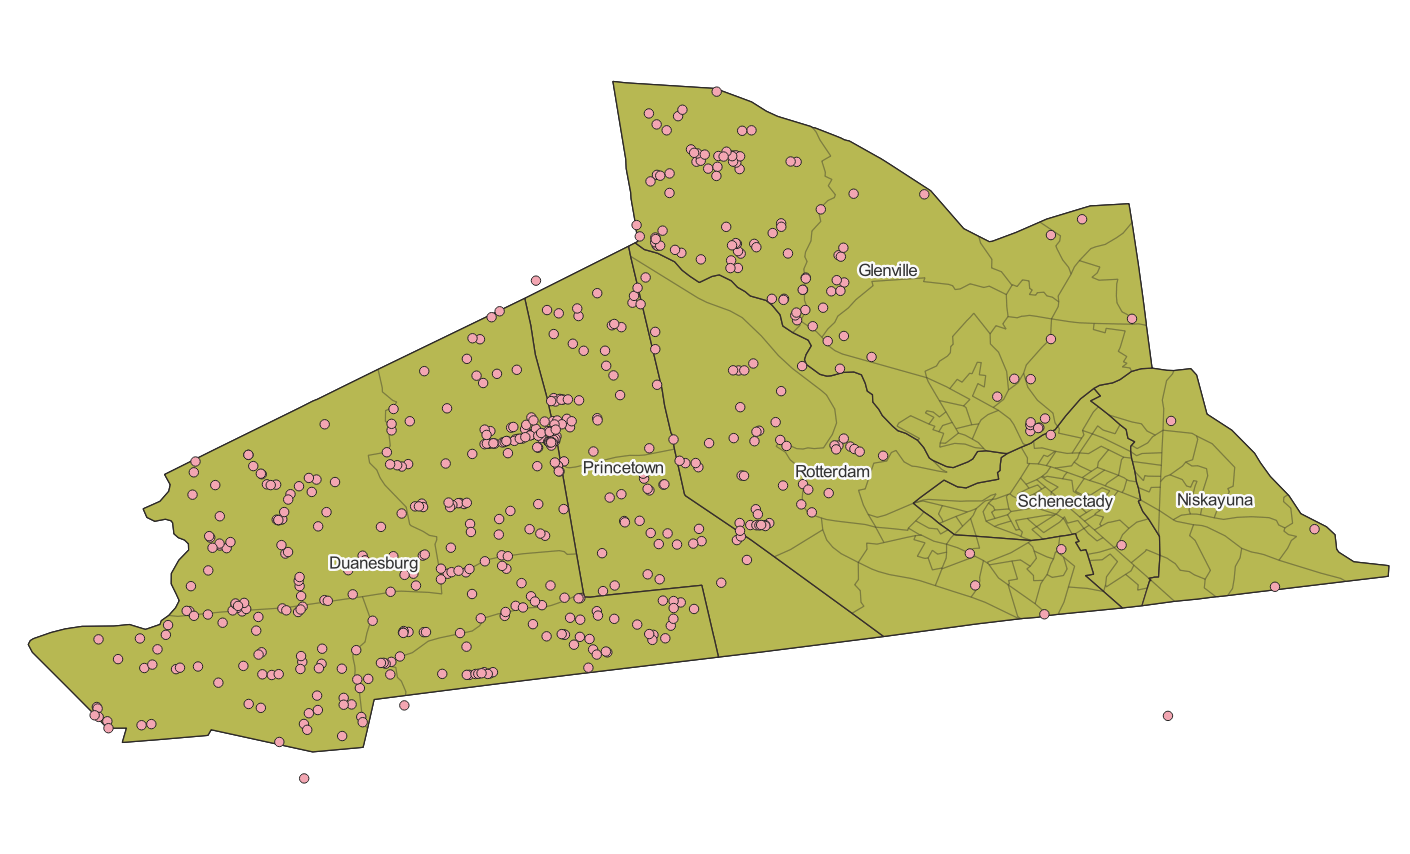
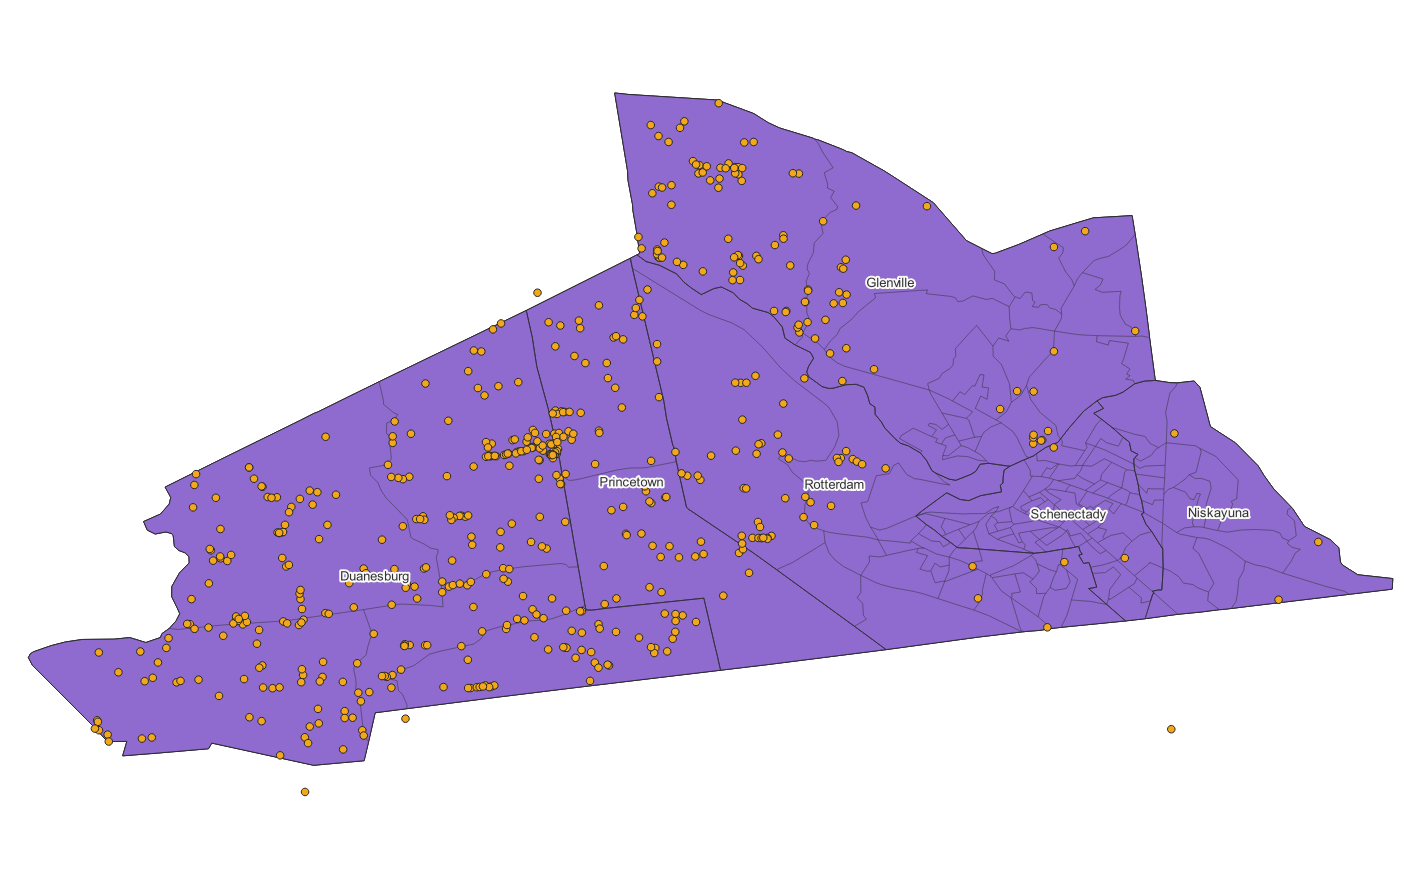
updates

diff --git a/README.md b/README.md
@@ -1,10 +1,8 @@
 # rural-solar-viability
- 
-(3) explain what each script does and the order in which they should be run; 
-(4) explain any additional files provided in the repository; and 
-(5) discuss the results.
 
-## Purpose of repository: Providing analysis of basic information to support decision makers involved in solar farm propagation in rural Upstate NY
+Author: Mary Rachel Keville
+
+## Purpose of repository
 
 The purpose of this repository is to compile data on groundwater and solar farms in Upstate New York. In particular, this repository focuses on understanding the proxmity of individual water wells on private property to **existing** solar projects.
 Solar farms are an up-and-coming source of clean energy, which is vital to the nation's adoption of clean energy initatives. However, solar farms pose their own environmental drawbacks - land is often clear cut to make way for the panels, and the panels themselves are coated in chemicals that could contaminate the local groundwater. 
@@ -16,7 +14,7 @@ The goal of this repository is not to dissuade rural stakeholders and decisionma
 
 - Cartographic boundary data from the US Census Bureau
     - How to access:
-        1. Visit https://www.census.gov/geographies/mapping-files/time-series/geo/cartographic-boundary.html
+        1. Visit the US Census Bureau https://www.census.gov/geographies/mapping-files/time-series/geo/cartographic-boundary.html
         2. Select the "2021" tab
         3. Scroll to each geography type's section on the page, select "New York" from the shapefile dropdown menu, and save the zip file to the repository:
             - Shapefiles:
@@ -26,40 +24,68 @@ The goal of this repository is not to dissuade rural stakeholders and decisionma
                    - Select "New York State" from shapefile dropdown menu 
                
                - Counties - 1:500,000 (national)
-                   - File name: cb_2021_36_bg_500k.zip
+                   - File name: cb_2021_us_county_500k.zip
                    - National file is only available
                
                - County Subdivisions - 1:500,0000 (state)
-                   - File name: cb_2021_36_bg_500k.zip
+                   - File name: cb_2021_36_cousub_500k.zip
                    - Select "New York State" from shapefile dropdown menu
 
-- Water wells locations and attribute data from the New York GIS Clearinghouse
-    - File name: WellWaterProgram.zip
-    - How to access:
-        1. Visit https://gis.ny.gov/gisdata/inventories/details.cfm?DSID=1203
-        2. Under the "Data Set Name" column of the table, click "Water Wells", and save the zip file to the repository
-        3. Notes: 
+- Water wells data from the New York GIS Clearinghouse
+    - Data on locations of water wells across New York State (last updated June 2021)
+        - Notes: 
             a. Dataset excludes well data from Nassau, Suffolk, Kings, and Queens counties (DEC Region 1)
             b. Data points may fall outside Census designated boundaries because of partial address data
+    - File name: WellWaterProgram.zip
+    - How to access:
+        1. Visit the New York GIS Clearinghouse at https://gis.ny.gov/gisdata/inventories/details.cfm?DSID=1203
+        2. Under the "Data Set Name" column of the table, click "Water Wells", and save the zip file to the repository
 
  - Solar project data from the NY-Sun Solar Program
-    - File name: Statewide_Solar_Projects_Beginning_2000.csv
+    - Data on completed solar projects from 2000-2021 in New York State
+    - File name: Statewide_Solar_Projects__Beginning_2000.csv
     - How to access: 
-        1. Visit https://data.ny.gov/Energy-Environment/Statewide-Solar-Projects-Beginning-2000/wgsj-jt5f
+        1. Visit the Open NY Data Portal at https://data.ny.gov/Energy-Environment/Statewide-Solar-Projects-Beginning-2000/wgsj-jt5f
         2. Click "Export" and select "CSV"
 
 ### Scripts and Files
 
-- groundwater_solar_mapping.qgz
+1. Run solar_projects_county.py
+    - Imports and cleans Statewide_Solar_Projects__Beginning_2000.csv, preparing it for use in the mapping stage of the repository
+    - Returns numbers on the number of solar projects:
+        - In New York State, by county
+        - In Schenectady County, by town and by year
+    - Removes all variables except
+        - County
+        - Project ID
+        - Interconnection Date
+        - Number of Projects
+    - Generates a clean version of the original data, solar.csv
+    
+2. Open groundwater_solar_mapping.qgz
     - Generates the .PNG map outputs using the Census, water well, and solar project data
-    - Filters
+    - Imports and filters Census shapefiles to desired state, counties, and block groups, generating new layers:
+        - County_Schenectady_NewYork
+            - Schenectady County boundary layer
+            - Formed from filtering cb_2021_us_county_500k.shp to the state level and the county level
+        - Countysub_Schenectady_NY
+            - Schenectady County subdivision boundary layer
+            - Formed from filtering cb_2021_36_cousub_500k.shp to the county level
+        - Countyblockgroup_Schenectady_NewYork
+            - Schenectady County block group boundary layer
+            - Formed from filtering cb_2021_36_bg_500k.shp to the county level
+    - Imports and filters Water Well Program data shapefile to the county level
+    - Imports and filters solar.csv file generated in Step 1 to the appropriate county level
     
 ### Outputs
 
-- Map Image Files (.PNG)
+- solar.csv: a cleaned version of Statewide_Solar_Projects__Beginning_2000.csv
+- Map Image Files
     - NYS_Schenectady County_BlockGroups.png: shows a map of New York State with county boundaries, with Schenectady County highlighted in brown and displaying the block groups of that county
     - WaterWellProgram_NYS_County.png: shows a map of New York State with county boundaries, overlaid with well location data
-    - WaterWellProgram_NYS_Schenectady County_Towns_BlockGroups.png: shows a map of Schenectady County with county subdivision (towns and cities) and  block group boundaries, overlaid with well location data
+    - WaterWellProgram_NYS_Schenectady County_Towns_BlockGroups.png: shows a map of Schenectady County with county subdivision (towns and cities) and block group boundaries, overlaid with well location data
+    - SolarFarm_NYS_County.png: shows a map of New York State with county boundaries, overlaid with solar farm data
+    - SolarFarm_NYS_Schenectady County_Towns_BlockGroups.png: shows a map of Schenectady County with county subdivision (towns and cities) and block group boundaries, overlaid with solar farm data 
 
 ## Main Findings
 
